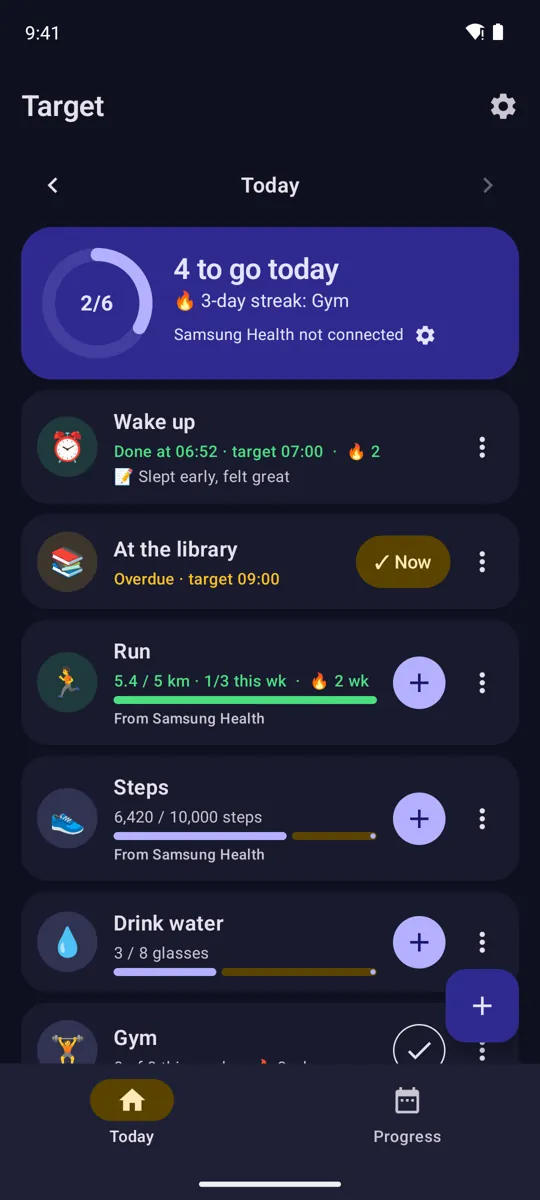
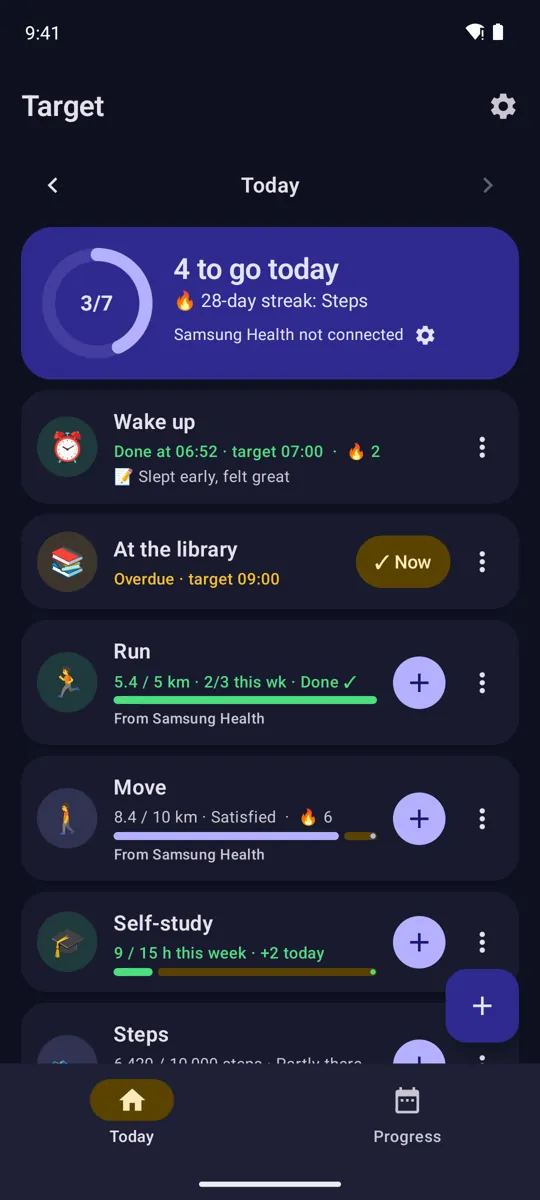
Website: 1.2.0 features and screenshots [skip ci]

diff --git a/docs/index.html b/docs/index.html
@@ -187,7 +187,9 @@ footer a{color:var(--graphite)}
         <article class="card"><div class="e" aria-hidden="true">📅</div><h3>Fits your timetable</h3><p>Run 3 times a week on any days. Library by 10:00 on Tuesday, 13:00 on Thursday. Class moved? Change just today&#x27;s time.</p></article>
         <article class="card"><div class="e" aria-hidden="true">⏸</div><h3>Pause and notes</h3><p>Pause a target for a holiday or exams without breaking the streak, and add a note to any day.</p></article>
         <article class="card"><div class="e" aria-hidden="true">📱</div><h3>Home-screen widget</h3><p>Today&#x27;s targets on your Android home screen, with a one-tap ✓.</p></article>
-        <article class="card"><div class="e" aria-hidden="true">🗓</div><h3>Monthly report</h3><p>Targets hit this month, your longest streak and what improved most. Clear old history whenever you like.</p></article>
+        <article class="card"><div class="e" aria-hidden="true">🚶</div><h3>Move, your way</h3><p>Walking, running and steps count together: 10 km or 13,500 steps. 60% is partly achieved, 80% satisfied, 100% done, 130% overachieved.</p></article>
+        <article class="card"><div class="e" aria-hidden="true">🎓</div><h3>Hours that add up</h3><p>Log study hours, or set 15 hours a week in any amounts on any days.</p></article>
+        <article class="card"><div class="e" aria-hidden="true">🗓</div><h3>Weekly and monthly summary</h3><p>Targets hit against last week, totals, best and toughest day, and a Share button. Clear old history whenever you like.</p></article>
         </div>
       </div>
     </section>
